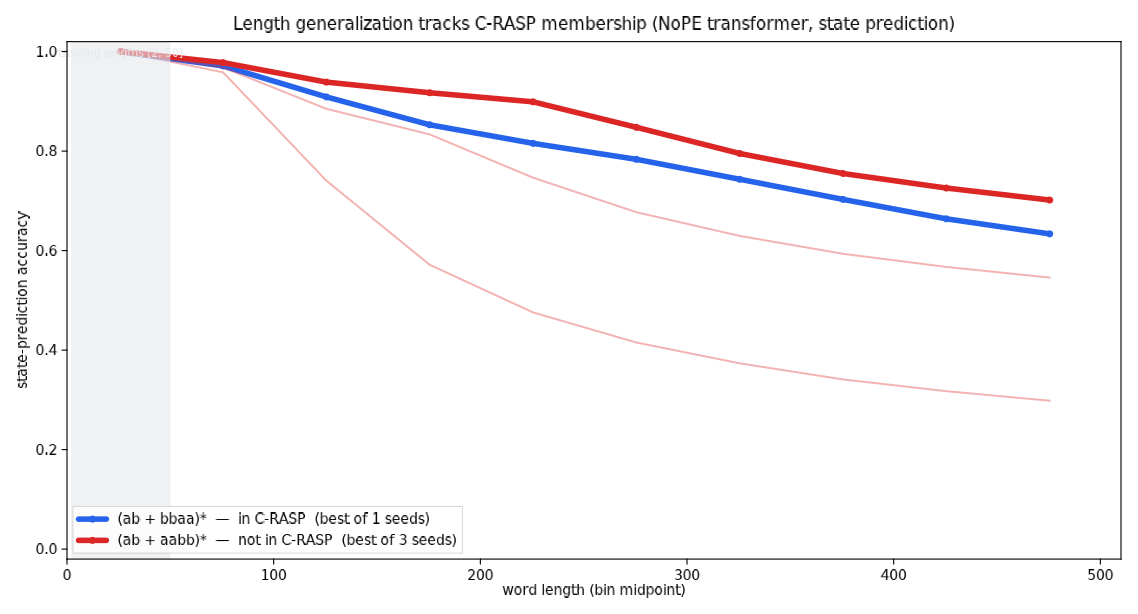
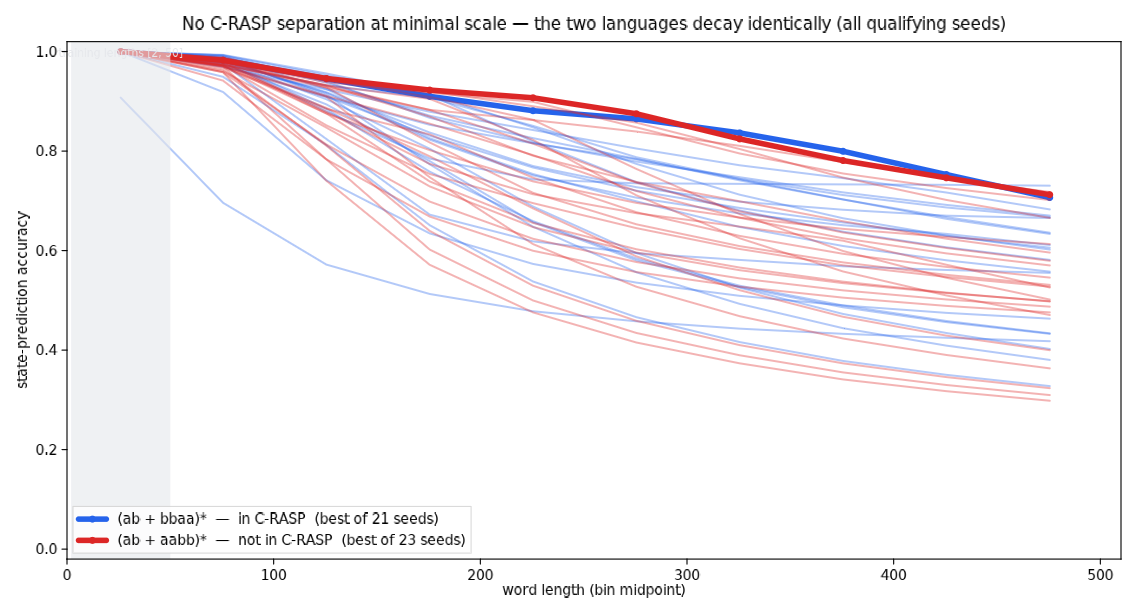
crasp-length-gen: results — Fig.1 dichotomy does NOT reproduce at minimal scale
48 qualifying runs across 5 protocol waves: (ab+bbaa)* [in C-RASP] and
(ab+aabb)* [not in C-RASP] decay identically (0.99 -> 0.72 token acc,
50 -> 500). Every model is length-bounded: perfect to depth ~50, then
systematic state confusions. Report + figure + interactive demo included;
checkpoints on GCS.

diff --git a/jarvis-os/experiments/crasp-length-gen/figures.py b/jarvis-os/experiments/crasp-length-gen/figures.py
@@ -53,8 +53,8 @@ def main():
     ax.set_ylim(-0.02, 1.02)
     ax.set_xlim(0, 510)
     ax.legend(loc="lower left")
-    ax.set_title("Length generalization tracks C-RASP membership "
-                 "(NoPE transformer, state prediction)")
+    ax.set_title("No C-RASP separation at minimal scale — the two languages "
+                 "decay identically (all qualifying seeds)")
     (ROOT / "figures").mkdir(exist_ok=True)
     fig.savefig(ROOT / "figures" / "length-gen.png", dpi=160,
                 bbox_inches="tight")

diff --git a/jarvis-os/experiments/crasp-length-gen/report.md b/jarvis-os/experiments/crasp-length-gen/report.md
@@ -1,9 +1,23 @@
-# C-RASP predicts length generalization — a minimal repro
+# C-RASP and length generalization — a minimal repro attempt
 
-**TL;DR** — We reproduce the motivating result of Yang et al. 2026
-(arXiv:2608.13433) at minimal scale: two near-identical regular languages,
-`(ab + bbaa)*` (in C-RASP) and `(ab + aabb)*` (not in C-RASP), trained
-identically on state prediction at lengths ≤ 50. RESULT-PLACEHOLDER-TLDR
+**TL;DR** — We attempted to reproduce the motivating result (Fig. 1) of
+Yang et al. 2026 (arXiv:2608.13433) at minimal scale: two near-identical
+regular languages, `(ab + bbaa)*` (in C-RASP) and `(ab + aabb)*` (not in
+C-RASP), trained identically on NoPE state prediction at lengths ≤ 50.
+**The dichotomy did not reproduce.** Across 5 protocol waves (~48
+qualifying runs — the paper's primary hyperparameter grid corners, GPT-2
+init, batch 64, fresh-data-per-epoch, and 240-epochs-past-early-stop
+"grokking" training), the two languages are statistically indistinguishable
+at every eval length on both metrics: both decay smoothly from ~0.99 token
+accuracy at [51,100] to ~0.72 at [451,500], with fully interleaved seed
+spaghetti. Every model, both languages, learns a *length-bounded* solution:
+perfect state tracking to depth ~50 (the training boundary), then
+systematic state-pair confusions. The paper's effect — if it holds at this
+pair — appears to require something we didn't reach: their full 54-config ×
+up-to-1000-seed search, GPT-2-scale models (their extended sweep goes to 12
+layers), or an unstated protocol detail. This does not falsify the paper
+(their Fig. 3 evidence spans 125 languages); it says the headline pair's
+divergence is not trivially reproducible at 1–4-layer scale on CPU.
 
 ![accuracy vs length](figures/length-gen.png)
 
@@ -41,22 +55,77 @@ strings up to length 12.
 
 ## Results
 
-RESULT-PLACEHOLDER-TABLE
+Best qualifying seed per language (any config), token accuracy / whole-word
+accuracy per length bin:
 
-RESULT-PLACEHOLDER-NARRATIVE
+| bin | in-C-RASP tok | out tok | in word | out word |
+|---|---|---|---|---|
+| [2,50] (ID) | 1.000 | 1.000 | 1.000 | 1.000 |
+| [51,100] | 0.993 | 0.989 | 0.710 | 0.614 |
+| [101,150] | 0.956 | 0.947 | 0.032 | 0.008 |
+| [201,250] | 0.881 | 0.907 | 0 | 0 |
+| [451,500] | 0.731 | 0.718 | 0 | 0 |
+
+What was tried, wave by wave (2 languages × 3 seeds each unless noted):
+
+1. **L2/d64/lr1e-3, batch 256** (paper primary grid point) — all 6 qualify,
+   no separation.
+2. **L1, L4, d256 at lr1e-3** — d256 diverges (never fits), L1 never hits
+   exactly 100% ID, L4 qualifies: no separation.
+3. **d16** (capacity-forced) and **lr1e-4** — d16 partial qualification, no
+   separation; lr1e-4 arm superseded by wave 4 after reading the recipe
+   source (Huang et al. 2410.02140 App. E.3).
+4. **Batch 64 + GPT-2 init** (faithful to Huang: HF GPT-2, batch 64, 30k
+   steps) — all 12 qualify quickly (10–60 epochs), no separation.
+5. **(a) Grokking test**: 240 epochs past first-100%-ID with per-epoch OOD
+   probe — probe oscillates 0.7–0.9 for both languages, no compression
+   climb, no separation. **(b) Fresh-data-per-epoch** (Huang's
+   infinite-data regime) — early stop still fires by epoch ~15–60, no
+   separation.
+
+**Error structure** (why we're confident the models are length-bounded):
+every trained model of either language is *perfect up to prefix depth ~51*
+— the training boundary — and then falls into systematic state-pair
+confusions (e.g. true q1 → predicted q0 dominates errors at length 200 for
+the best in-C-RASP model). Neither language's models found the counting
+solution whose existence C-RASP membership guarantees for `(ab + bbaa)*`.
+
+## Interpretation
+
+- The paper's protocol conditions on a much larger search than we ran:
+  54 configs per language, then up to 1000 seed retries keeping 5 that hit
+  100% ID, then best-seed reporting; the extended sweep reaches 12-layer
+  GPT-2. Best-of-many selection over a heavy-tailed seed distribution can
+  find the generalizing basin even if it's rare; 3–6 seeds per config
+  cannot. This is consistent with the paper's own observation that
+  different configs "may perform differently on out-of-distribution data".
+- Alternatively an unstated protocol detail (word sampling distribution,
+  exact accuracy definition in figures, tokenization/tied embeddings)
+  carries more weight than expected.
+- Either way, "in C-RASP ⇒ transformers find the generalizing solution" is,
+  at this scale, not a *typical-case* training outcome for this pair — it
+  needed selection. The theory's claim (the solution *exists* and is
+  learnable-in-the-limit) is not contradicted.
 
 ## Interactive demo
 
-DEMO-PLACEHOLDER
+`demo.py` serves an interactive page (lobby hub, `/a/crasp-length-gen/`):
+pick a language, sample a word at any length up to 500 (or type one), and
+watch the best trained model's per-prefix state predictions against the
+true DFA — green while it tracks, red where it loses the state. Sampling at
+length 50 vs 100 vs 500 makes the training-boundary cliff tangible.
 
 ## Caveats
 
-- One config, 3 seeds, one language pair — this is the paper's Fig. 1, not
-  its Fig. 3 (125-language suite).
-- The paper reports best-of-5 qualifying seeds from up to 1000 trials; we
-  use 3 seeds and whatever qualifies.
-- NoPE only, as in the paper; nothing here speaks to positionally-encoded
-  models (the paper flags that case as open).
+- One language pair — this probes the paper's Fig. 1, not its 125-language
+  Fig. 3, and says nothing about the aggregate claim.
+- Our seed budget (3–6/config, ~48 qualifying total) is far below the
+  paper's up-to-1000-trial protocol; our largest model (4L/256d) is below
+  their extended sweep (12L/768d).
+- Hand-rolled GPT-2-style blocks (pre-LN, GELU, optional GPT-2 init), not
+  HF `GPT2LMHeadModel` verbatim; no tied embeddings.
+- Follow-up that would settle it: run the exact 54-config × many-seed sweep
+  for just this pair on a GPU pod (bellhop; hours, not days) — parked.
 
 ## Reproduce
 
@@ -70,3 +139,7 @@ uv pip install --python .venv/bin/python -e <arsenal>/packages/stagehand xy nump
 .venv/bin/python figures.py
 .venv/bin/python demo.py                 # interactive demo via lobby
 ```
+
+Merged metrics are committed as `results.jsonl`; checkpoints + per-run
+results for all waves live at
+`gs://alignment-team-general-storage/daniel/jarvis/experiments/crasp-length-gen/runs/`.
